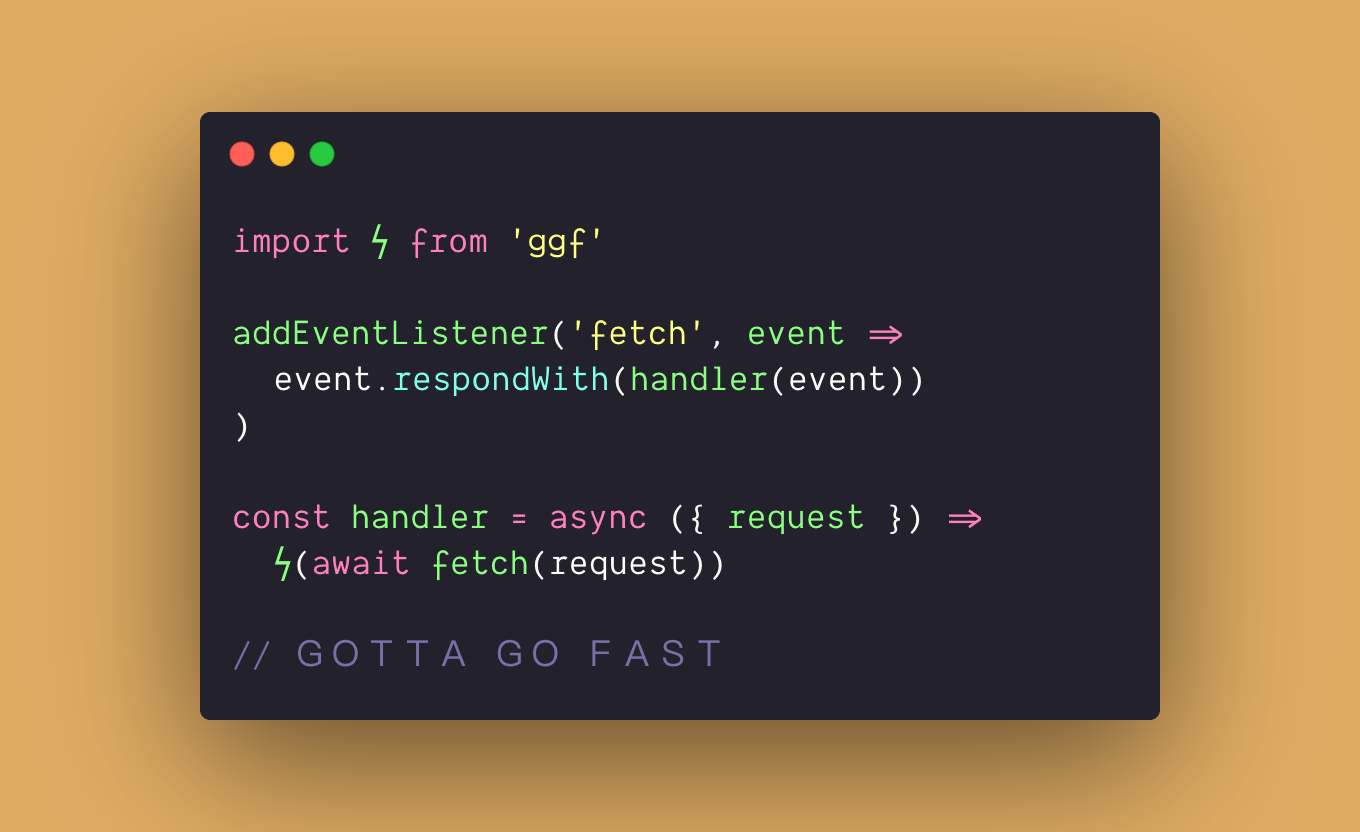
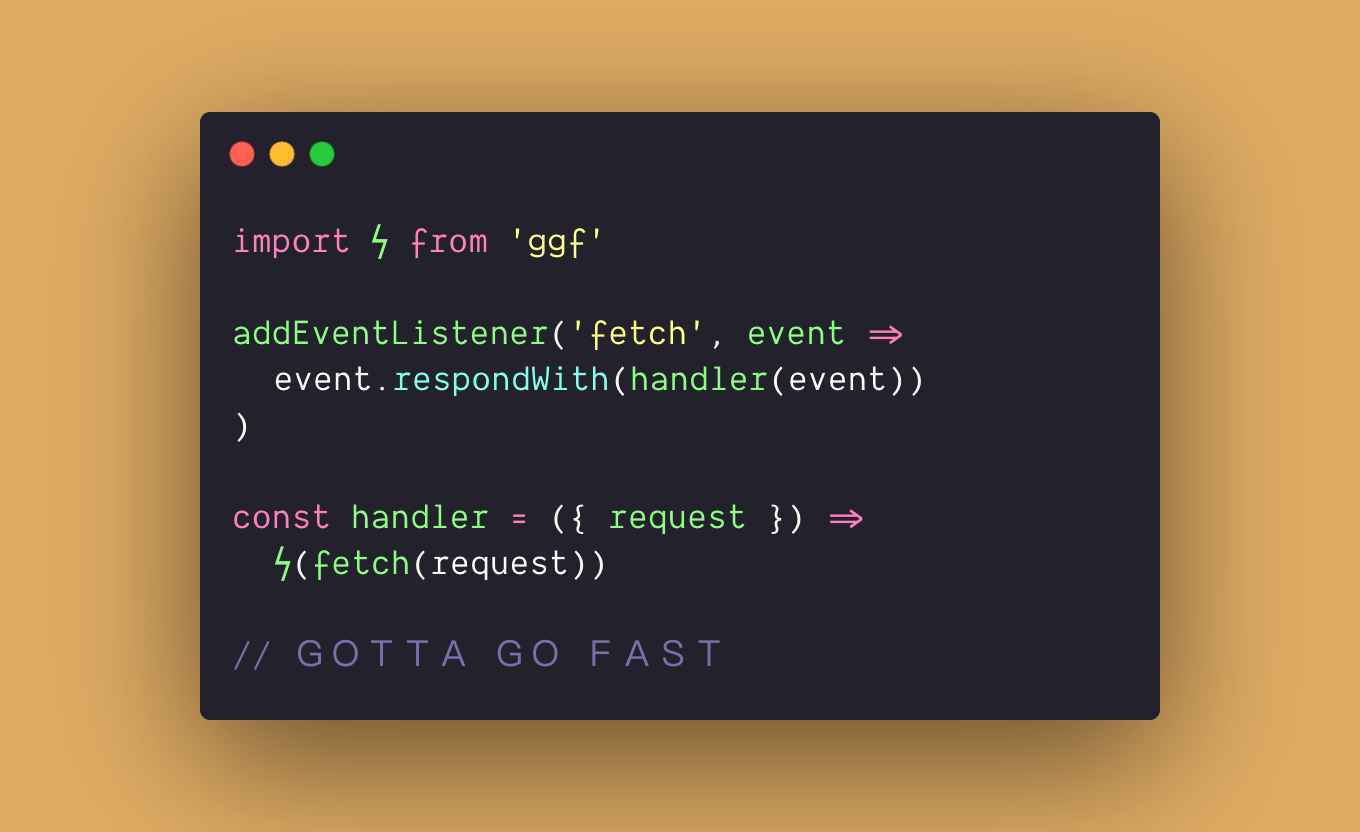
0.0.2
- Allow responses or promises that resolve to promises to be passed into ggf
- Clean up defer code a bit

Changed region(s): [[0.2162, 0.5938, 0.6794, 0.6875]]

diff --git a/index.js b/index.js
@@ -24,7 +24,11 @@ const optimizations = {
   versionMetaTag: ["head", VersionMetaTag],
 };
 
-const gottaGoFast = (resp, config = {}) => {
+const gottaGoFast = async (response, config = {}) => {
+  // Wrap in promise and resolve so responses or promises
+  // that _resolve_ to responses can be passed in
+  const resp = await Promise.resolve(response);
+
   // Assign defaults from `defaultConfig` but let config
   // overwrite them
   const conf = Object.assign({}, defaultConfig, config);

diff --git a/optimizations/version.js b/optimizations/version.js
@@ -1,4 +1,4 @@
-const VERSION = "0.0.1";
+const VERSION = "0.0.2";
 
 export default () => ({
   element: (element) => {

diff --git a/README.md b/README.md
@@ -17,7 +17,7 @@ capture a response from your origin, and pass it through ggf. in three lines:
 ```js
 import ϟ from 'ggf'
 addEventListener('fetch', event => event.respondWith(handler(event)))
-const handler = async ({ request }) => ϟ(await fetch(request))
+const handler = ({ request }) => ϟ(fetch(request))
 ```
 
 and a longer sample:
@@ -25,8 +25,8 @@ and a longer sample:
 ```js
 import ggf from 'ggf'
 addEventListener('fetch', event => event.respondWith(handler(event)))
-const handler = async ({ request }) => {
-  const resp = await fetch(request)
+const handler = ({ request }) => {
+  const resp = fetch(request)
   return ggf(resp)
 }
 ```
